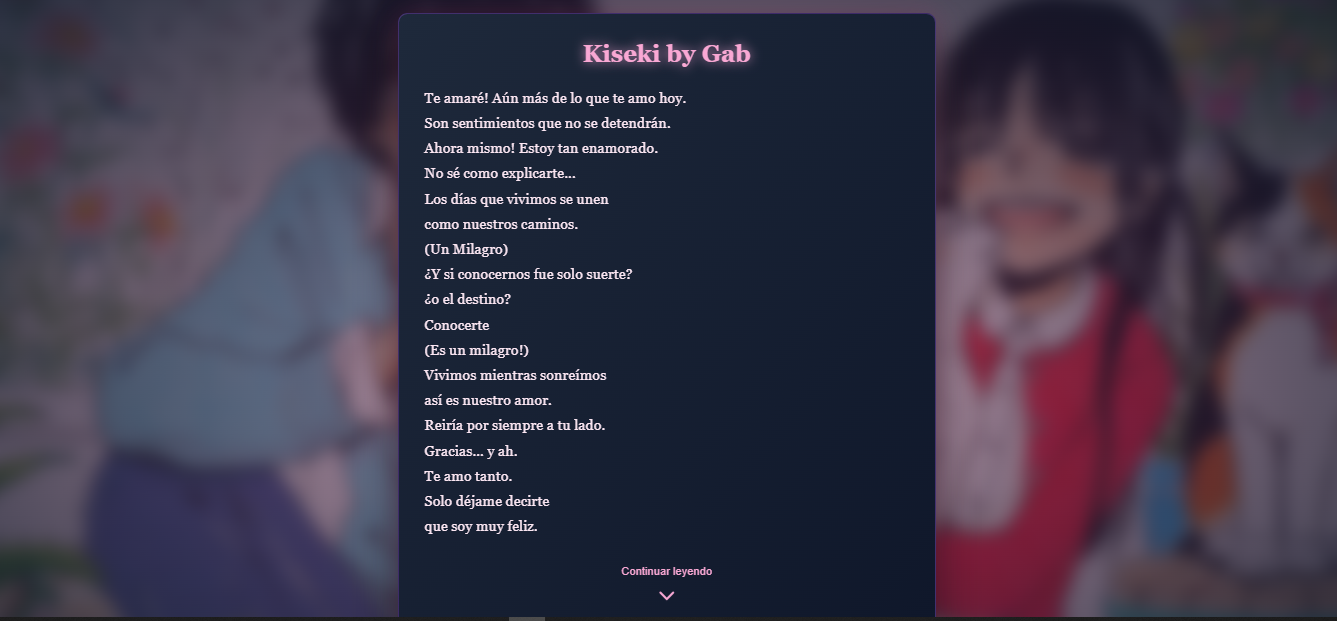
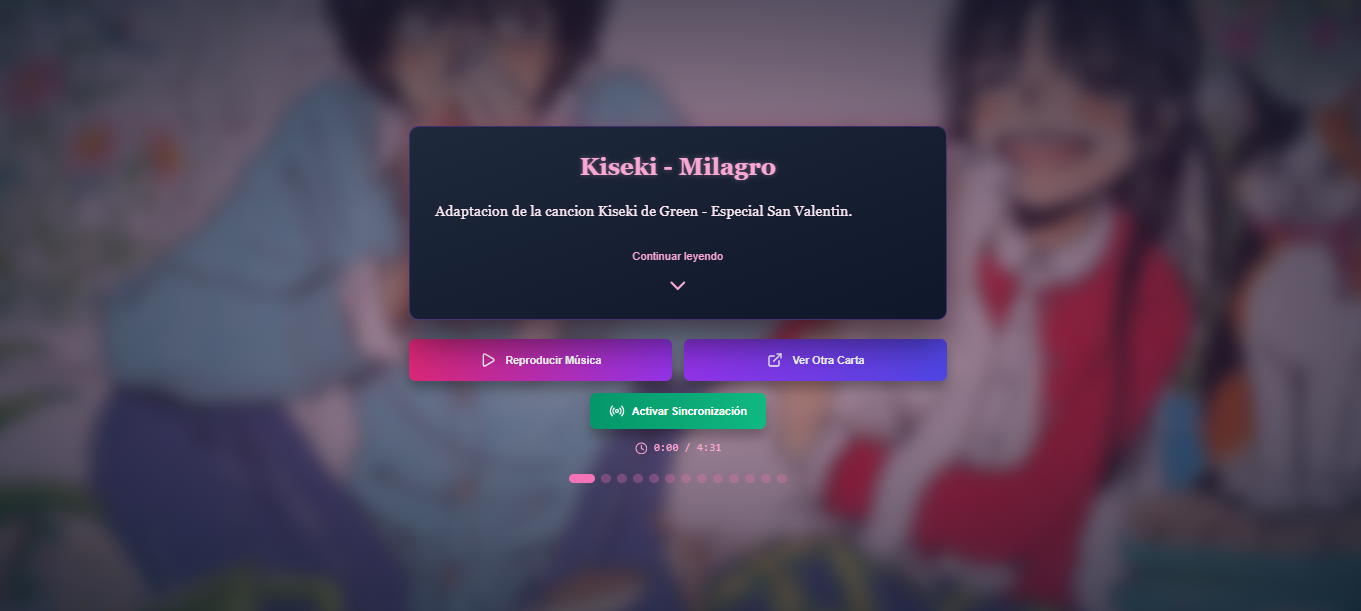
añadido de san valentin

diff --git a/src/components/Projects.js b/src/components/Projects.js
@@ -10,9 +10,9 @@ function Projects() {
       link: "https://mirai-inc-ihc.github.io/LandingPageDS/public/"
     },
     {
-      title: "Modelo Figma Discord - Diseño Web",
-      image: "/Figma.png", 
-      link: "https://www.figma.com/design/nSGhSUWmjXwynFwWIv9ZRJ/Devdatep-Prueba?node-id=0-1&p=f&t=F9LhK8WdM95oL7oD-0"
+      title: " Cartas San Valentin - Frontend",
+      image: "/Kiseki.png", 
+      link: "https://kiseki-green-gab.vercel.app/"
     },
     {
       title: "Proyecto  Arsenal - Frontend",
